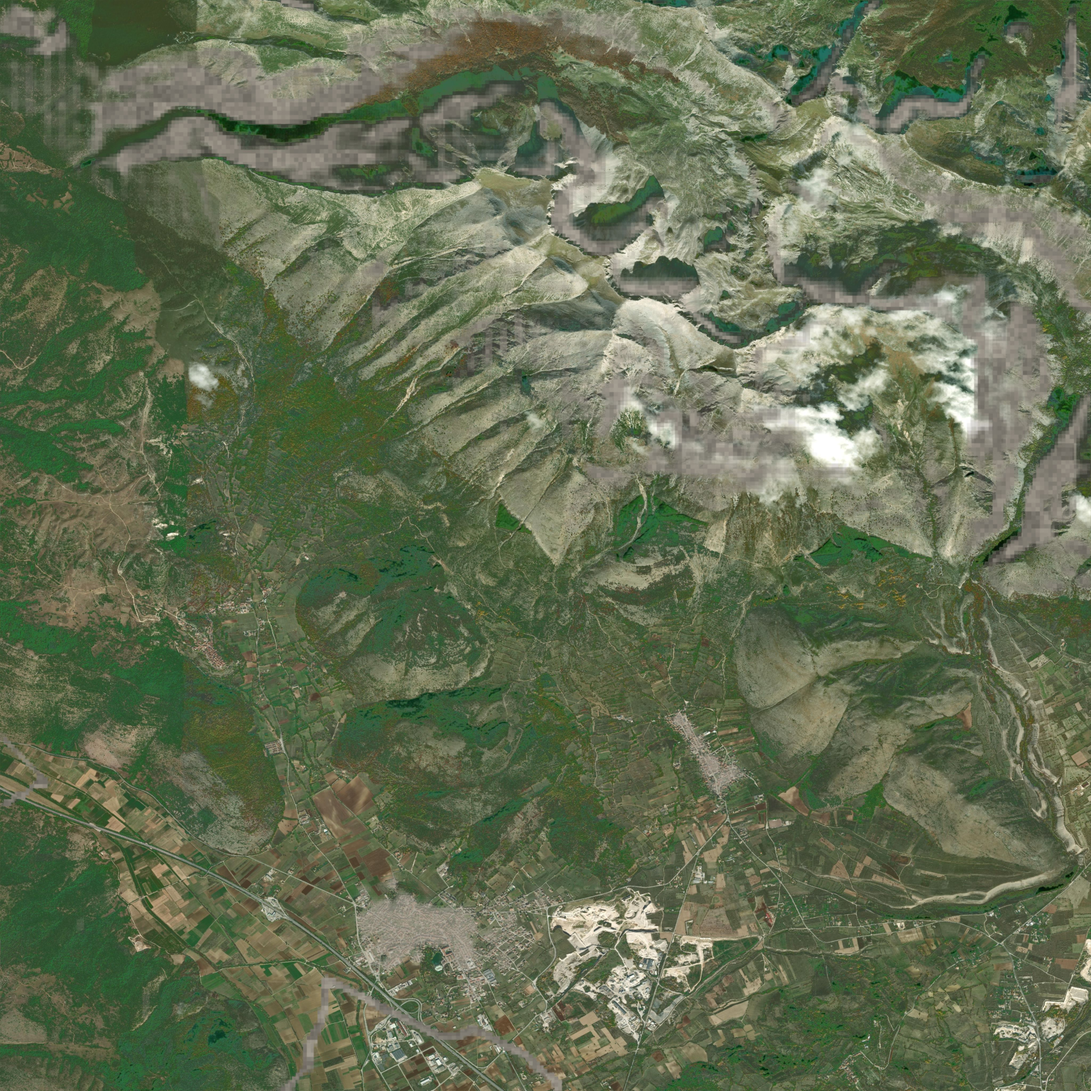
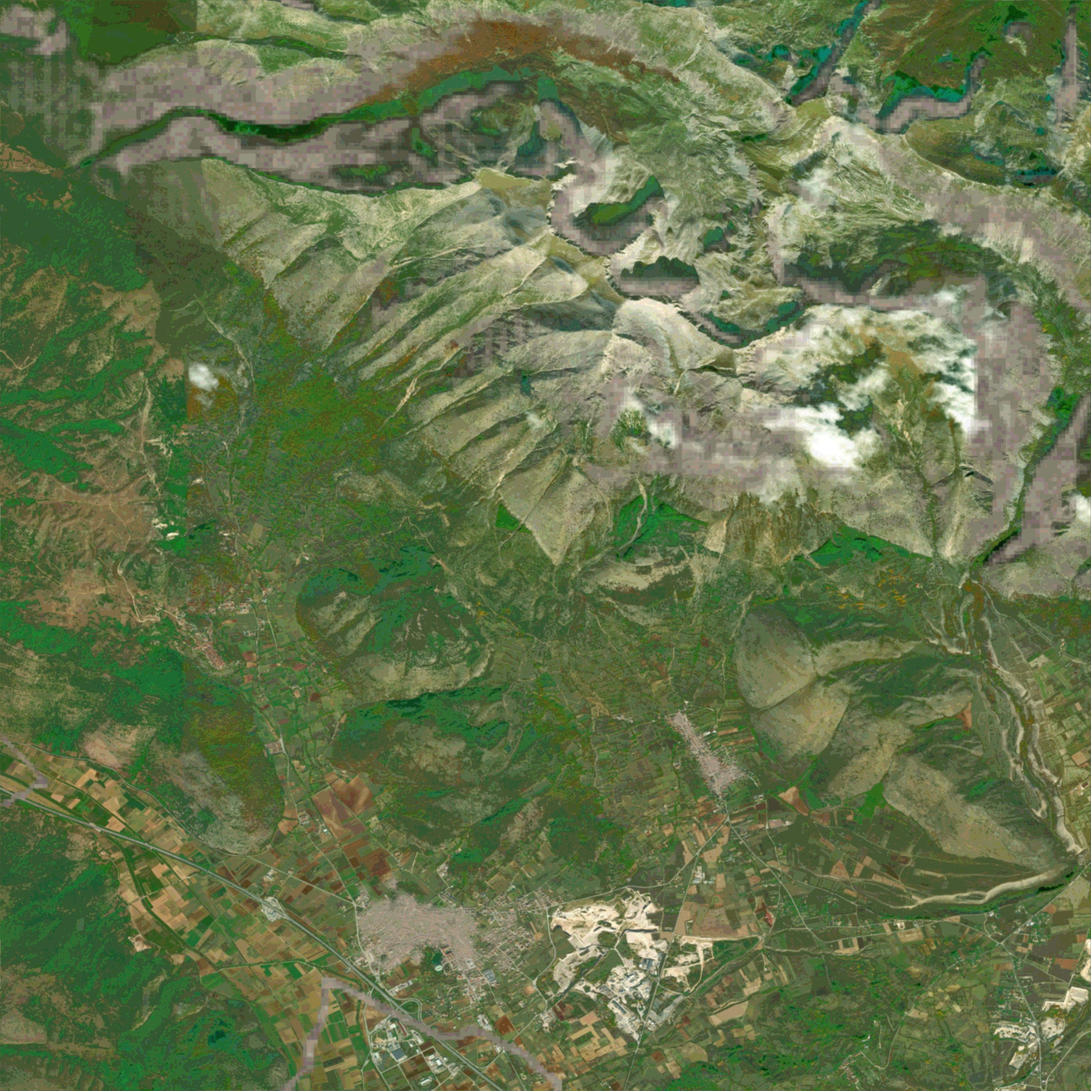
v21: texture opzione C - ortofoto stilizzata + roccia procedurale sulle pareti
- assets/ortho.jpg rigenerata in versione stilizzata (blur leggero,
  saturazione 1.45, posterizzazione 13 livelli a 4096px): colori puliti
  stile videogame, niente rumore fotografico. Il lavoro precedente
  (de-shadow, suolo urbano uniforme) resta incluso.
- colorizeTerrain: sulle pendenze ripide (>~38-52 gradi, transizione
  morbida) la foto stirata viene sostituita nel fragment shader da roccia
  procedurale world-space (strati sinusoidali distorti + 3 scale di grana
  dalla DataTexture uDet gia' presente), tinta presa dalla foto sfocata
  locale (canvas 128px -> uniform uTinta): colori reali, niente cuciture,
  nitida a qualsiasi distanza. Grana e saturazione esistenti applicate
  sopra per coerenza.
- Scelta fatta da Ale sul confronto _confronto_texture.html (A/B/C).
- VER v38.

Claude-Session: https://claude.ai/code/session_01VEBQDSo5ANEP4daysucSJD

diff --git a/app.js b/app.js
@@ -5,7 +5,7 @@ import { OrbitControls } from 'three/addons/controls/OrbitControls.js';
 import { GLTFLoader } from 'three/addons/loaders/GLTFLoader.js';
 import { DRACOLoader } from 'three/addons/loaders/DRACOLoader.js';
 
-const VER = 'v37';
+const VER = 'v38';
 let LOADT0 = 0;
 let cumDP = null;
 const $ = id => document.getElementById(id);
@@ -808,6 +808,17 @@ function detailTex(){
   DETTEX.needsUpdate = true;
   return DETTEX;
 }
+let _tintaTex = null;
+function tintaTex(){
+  if (_tintaTex || !ORTHO || !ORTHO.img) return _tintaTex;
+  const c = document.createElement('canvas'); c.width = c.height = 128;
+  const x = c.getContext('2d');
+  x.drawImage(ORTHO.img, 0, 0, 128, 128);
+  _tintaTex = new THREE.CanvasTexture(c);
+  _tintaTex.colorSpace = THREE.SRGBColorSpace;
+  _tintaTex.wrapS = _tintaTex.wrapT = THREE.ClampToEdgeWrapping;
+  return _tintaTex;
+}
 function colorizeTerrain(mesh){
   const g = mesh.geometry;
   const pos = g.getAttribute('position');
@@ -848,13 +859,25 @@ function colorizeTerrain(mesh){
     const matT = new THREE.MeshStandardMaterial({ map: tex, vertexColors: true, roughness: 1, metalness: 0 });
     matT.onBeforeCompile = sh => {
       sh.uniforms.uDet = { value: detailTex() };
+      sh.uniforms.uTinta = { value: tintaTex() };
       sh.vertexShader = sh.vertexShader
-        .replace('#include <common>', '#include <common>\nvarying vec2 vDetXZ;')
-        .replace('#include <begin_vertex>', '#include <begin_vertex>\nvDetXZ = (modelMatrix * vec4(position, 1.0)).xz;');
+        .replace('#include <common>', '#include <common>\nvarying vec2 vDetXZ;\nvarying vec2 vUvO;\nvarying float vNy;\nvarying float vWy;')
+        .replace('#include <begin_vertex>', '#include <begin_vertex>\nvDetXZ = (modelMatrix * vec4(position, 1.0)).xz;\nvUvO = uv;\nvNy = normalize(mat3(modelMatrix) * normal).y;\nvWy = (modelMatrix * vec4(position, 1.0)).y;');
       sh.fragmentShader = sh.fragmentShader
-        .replace('#include <common>', '#include <common>\nuniform sampler2D uDet;\nvarying vec2 vDetXZ;')
+        .replace('#include <common>', '#include <common>\nuniform sampler2D uDet;\nuniform sampler2D uTinta;\nvarying vec2 vDetXZ;\nvarying vec2 vUvO;\nvarying float vNy;\nvarying float vWy;')
         .replace('#include <color_fragment>', `#include <color_fragment>
 {
+  // C: roccia procedurale sulle pareti ripide (la foto stirata sparisce)
+  float ripida = smoothstep(0.86, 0.62, abs(vNy));
+  if (ripida > 0.003) {
+    vec3 tinta = texture2D(uTinta, vUvO).rgb;
+    float s1 = texture2D(uDet, vDetXZ / 23.0).r;
+    float s2 = texture2D(uDet, vDetXZ / 91.0).g;
+    float s3 = texture2D(uDet, vDetXZ / 7.0).g;
+    float banda = 0.5 + 0.5 * sin((vWy + (s2 - 0.5) * 34.0) * 0.42);
+    float lum = 0.60 + 0.62 * (0.48 * banda + 0.36 * s1 + 0.16 * s3);
+    diffuseColor.rgb = mix(diffuseColor.rgb, tinta * lum, ripida);
+  }
   float d1 = texture2D(uDet, vDetXZ / 19.0).r;
   float d2 = texture2D(uDet, vDetXZ / 141.0).g;
   diffuseColor.rgb *= mix(0.84, 1.16, d1) * mix(0.92, 1.08, d2);

diff --git a/index.html b/index.html
@@ -163,7 +163,7 @@ html,body{height:100%;overflow:hidden;background:var(--verde);color:var(--avorio
     <div class="lab" id="g-lab">Cancello</div>
     <div class="val" id="v-g">&mdash;</div>
   </div>
-  <div id="logo-top"><img src="assets/srm_logo.png?v=37" alt="Skyrace del Maglio"></div>
+  <div id="logo-top"><img src="assets/srm_logo.png?v=38" alt="Skyrace del Maglio"></div>
   <div class="slot" id="slot-sent">
     <div id="chip">E1</div>
     <div id="sent-lab">SENTIERO PERCORSO</div>
@@ -193,7 +193,7 @@ html,body{height:100%;overflow:hidden;background:var(--verde);color:var(--avorio
 <div class="cover" id="loader">
   <div id="load-t">SRM <span>EXPLORER</span></div>
   <div id="load-sub">Skyrace del Maglio 2026 · percorso in 3D</div>
-  <img id="lino-nome" src="assets/lino_nome.png?v=37" alt="LINO">
+  <img id="lino-nome" src="assets/lino_nome.png?v=38" alt="LINO">
   <div id="spinbox">
     <div id="spin-img"></div>
     <svg id="spin-svg"></svg>
@@ -217,6 +217,6 @@ html,body{height:100%;overflow:hidden;background:var(--verde);color:var(--avorio
   "three/addons/":"https://cdn.jsdelivr.net/npm/three@0.169.0/examples/jsm/"
 }}
 </script>
-<script type="module" src="app.js?v=37"></script>
+<script type="module" src="app.js?v=38"></script>
 </body>
 </html>
